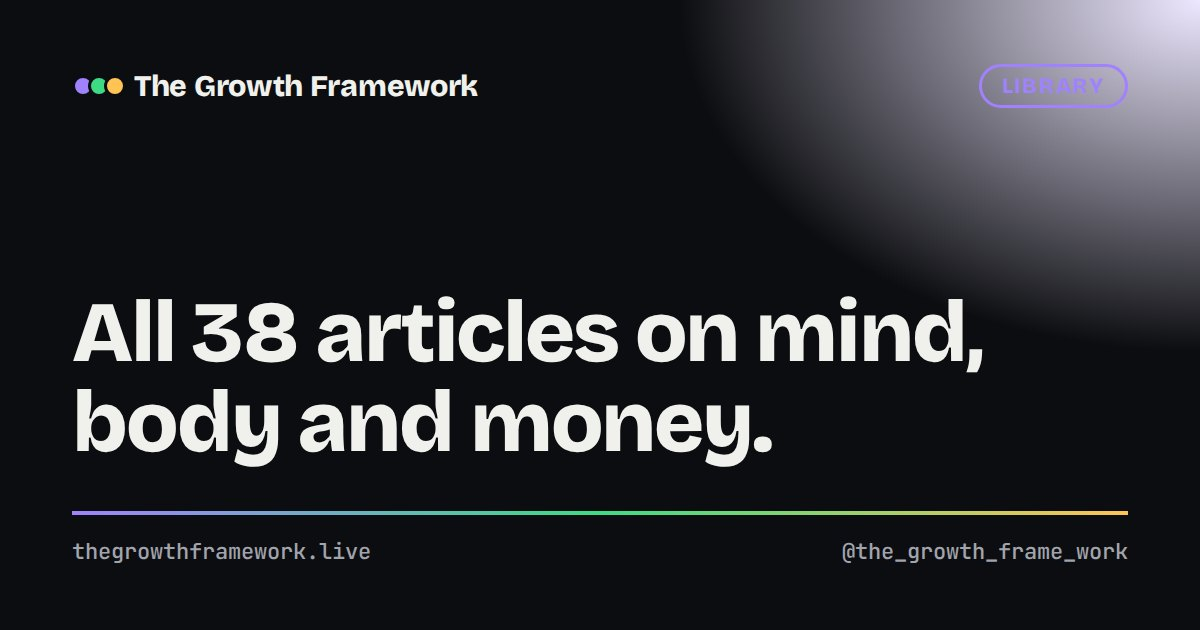
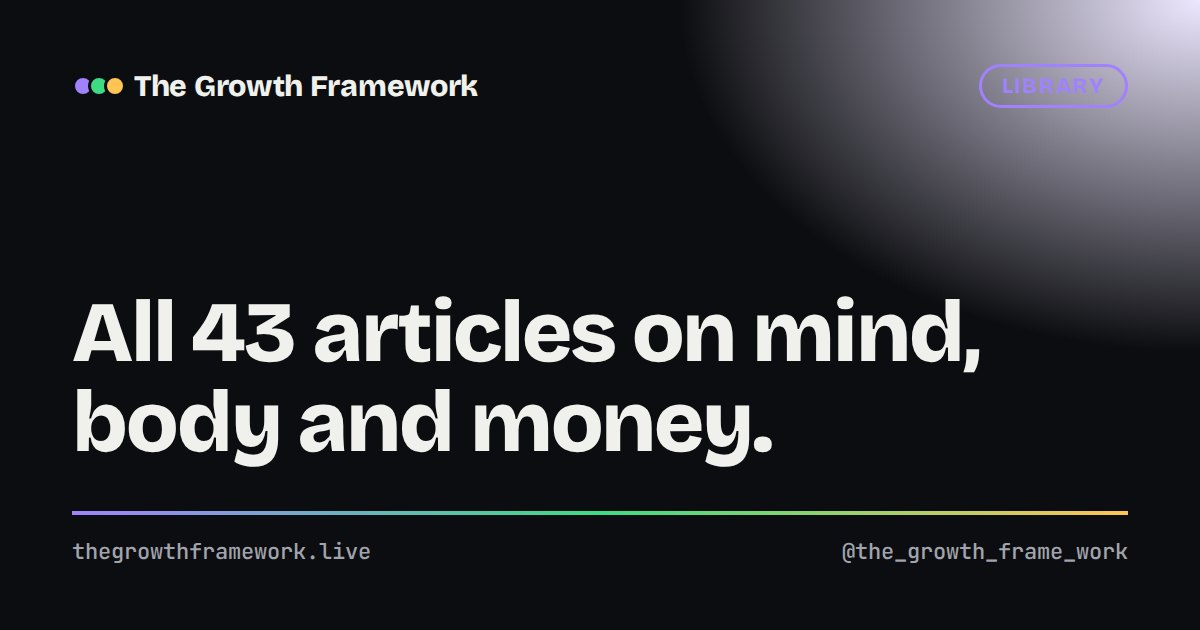
Add AI & Skills section: real use cases and evidence, not hype (#3)
Claude-Session: https://claude.ai/code/session_01FgvJgfoWZ48NYLdiVTJvtE

Changed region(s): [[0.1542, 0.4825, 0.8325, 0.6032]]

diff --git a/growth-framework/src/styles.css b/growth-framework/src/styles.css
@@ -549,3 +549,5 @@ footer ul a{text-decoration:none;color:var(--muted)} footer ul a:hover{color:var
 .sources h2{font-size:20px!important;margin:0 0 10px!important}
 .sources ol{font:400 14px/1.5 var(--display);color:var(--muted);padding-left:20px;margin:0}
 .sources li{margin:4px 0}
+.ai-sec .bp-card{border-left-color:var(--body)}
+.ai-sec .bp-card:hover h3{color:var(--body)}

diff --git a/growth-framework/WRITING.md b/growth-framework/WRITING.md
@@ -160,3 +160,8 @@ Published: 1 Careem, 2 Airbnb, 3 Jack Dorsey (Twitter, Square/Block), 4 Elon Mus
 6 Jensen Huang (Nvidia), 7 Jeff Bezos (Amazon).
 Ideas for later parts (check current facts before writing): recent fintech companies, including Pakistani
 fintechs, Stripe, Revolut, Nubank, Daraz, Systems Ltd.
+
+## AI & Skills
+
+Real use cases and evidence only, no hype or income promises. Each article shows "Last checked" and lists
+sources. Add slugs to `AI_SKILLS` in `build.mjs`.
